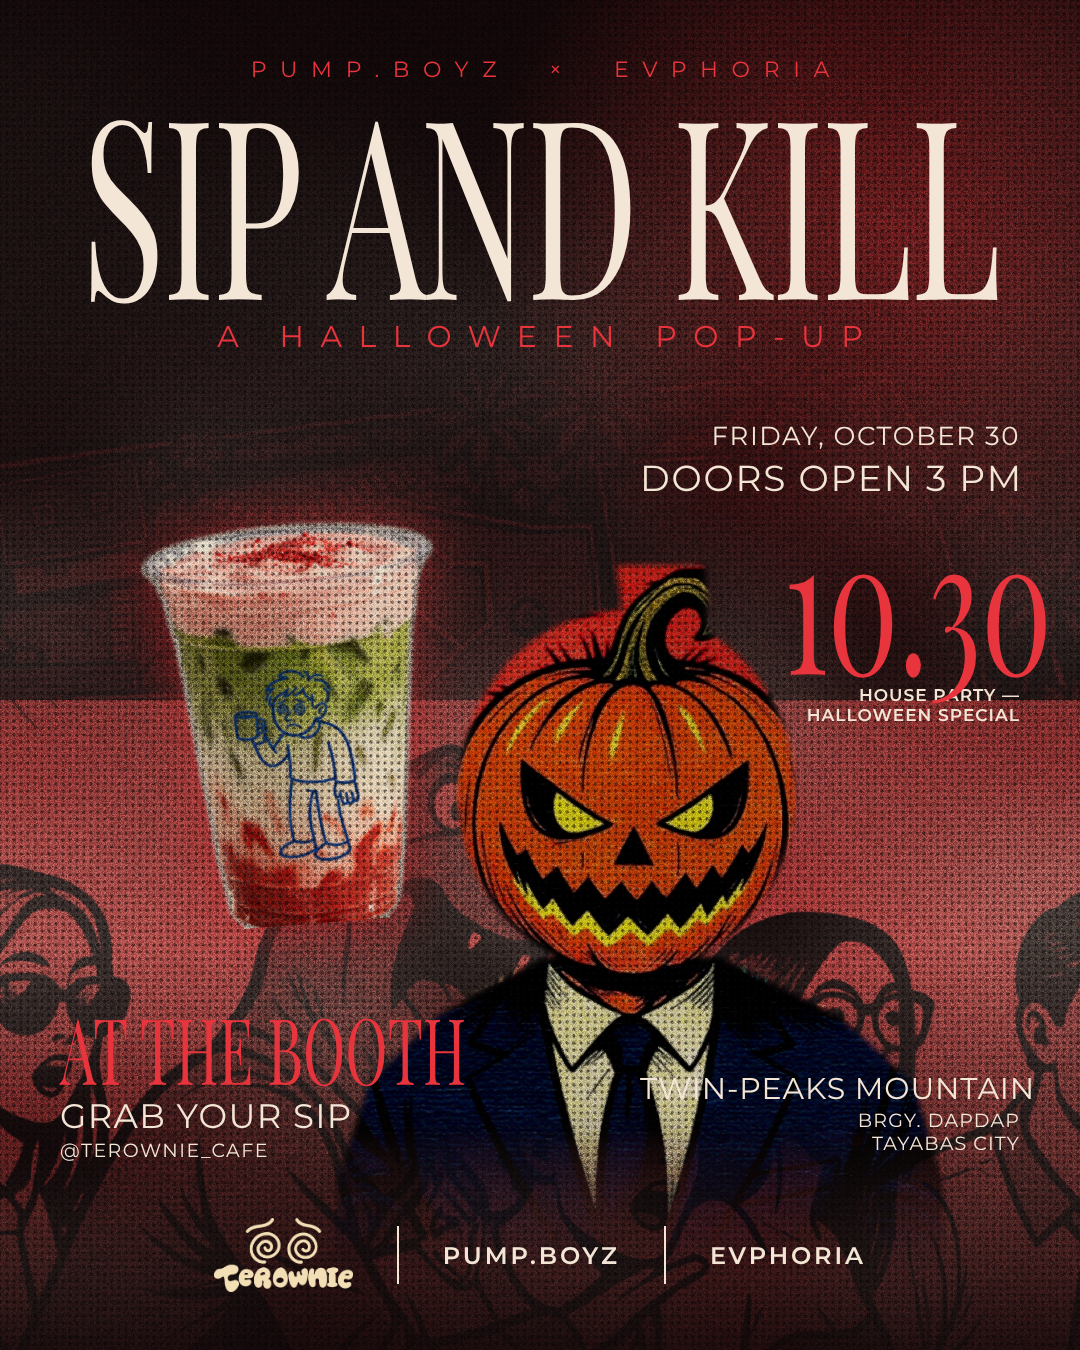
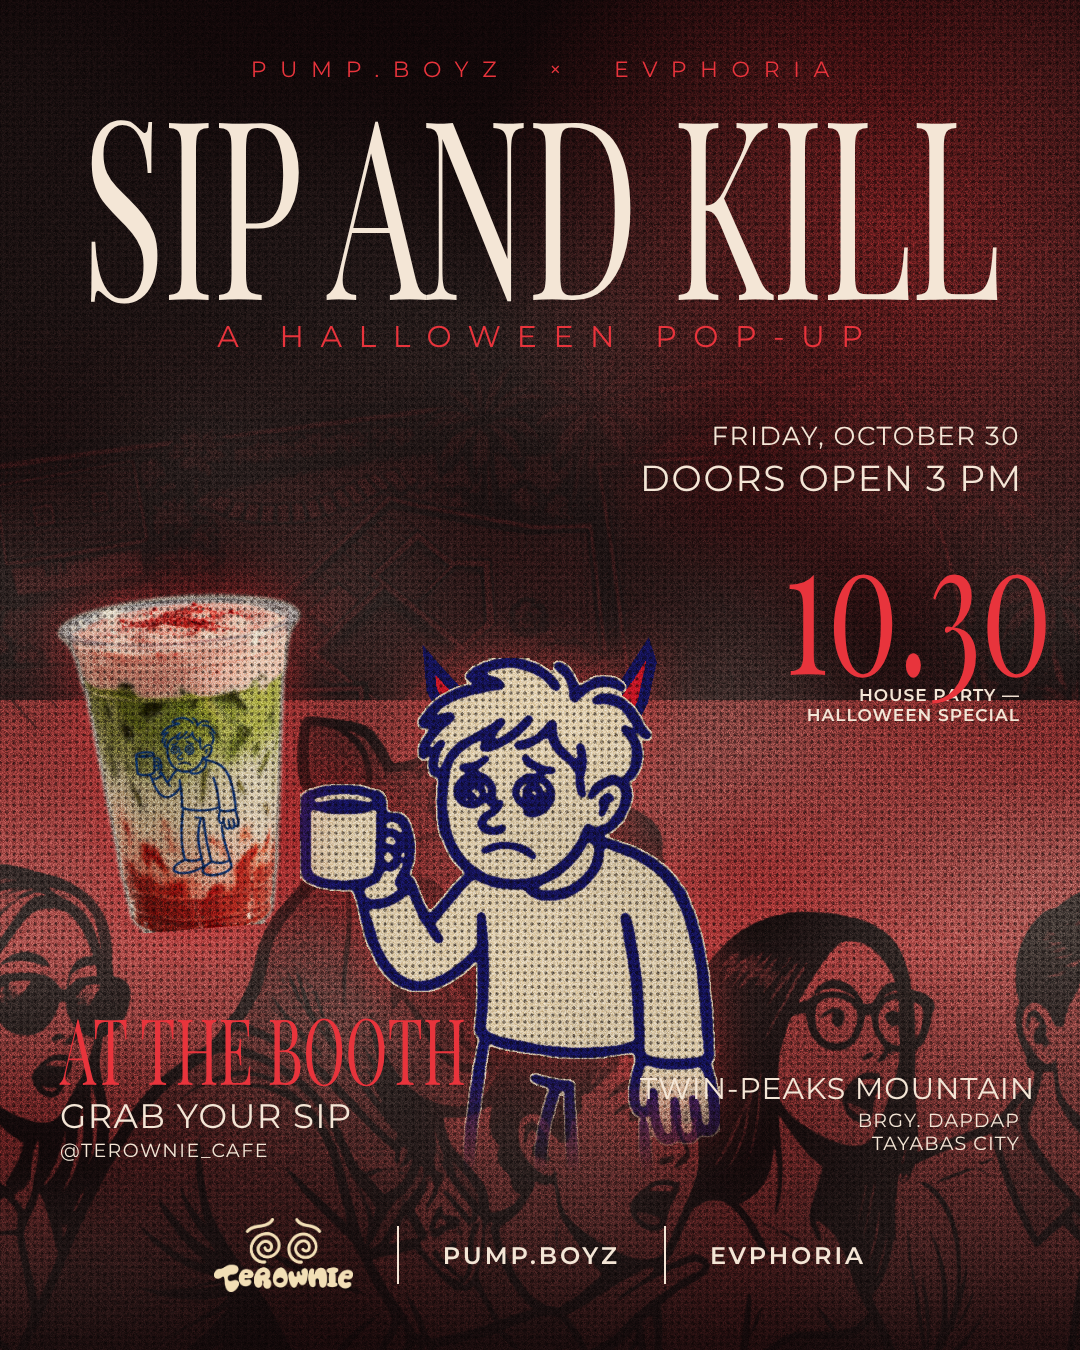
Replace event pumpkin host with Terownie's own sleepy mascot (devil-horn edition) in pop-up posters
Claude-Session: https://claude.ai/code/session_01Jsg96ZpBvmUg8MzNJ1nTWt

Changed region(s): [[0.0306, 0.3733, 0.8861, 0.9022]]

diff --git a/posters/source/fright.html b/posters/source/fright.html
@@ -19,7 +19,7 @@ const RED='#E8343C', CREAM='#F4E6D6';
   await fonts(["40px PF","400 20px MS","600 20px MS"]);
   const crowd=await load(ROOT+'public/event/costume-crowd.png');
   const house=await load(ROOT+'public/event/party-house.png');
-  const host=await load(ROOT+'public/event/pumpkin-host-cut.png');
+  const host=await load(ROOT+'public/brand/mascot-devil.png');
   const cup=await load(ROOT+'public/drinks/strawberry-matcha.png');
   const logo=await load(ROOT+'public/brand/terownie-logo-cream.png');
 
@@ -36,12 +36,12 @@ const RED='#E8343C', CREAM='#F4E6D6';
 
   // 2 the event's pumpkin-head host, dark and moody
   const fg=layer('02-pumpkin-host',2);
-  fg.save();fg.filter='brightness(.82) contrast(1.15) saturate(.9)';fg.drawImage(host,330,560,620,714);fg.restore();
+  fg.save();fg.shadowColor='rgba(232,52,60,.55)';fg.shadowBlur=50;fg.drawImage(host,300,600,420,574);fg.restore();
   g=fg.createLinearGradient(0,1100,0,1350);g.addColorStop(0,'rgba(18,7,9,0)');g.addColorStop(1,'rgba(18,7,9,.95)');fg.globalCompositeOperation='source-atop';fg.fillStyle=g;fg.fillRect(0,0,W,H);fg.globalCompositeOperation='source-over';
 
   // 3 the hero: real Terownie strawberry matcha held up like the red balloon
   const cp=layer('03-hero-drink',3);
-  cp.save();cp.shadowColor='rgba(232,52,60,.65)';cp.shadowBlur=60;cp.translate(300,720);cp.rotate(-.08);cp.drawImage(cup,-150,-200,300,404);cp.restore();
+  cp.save();cp.shadowColor='rgba(232,52,60,.65)';cp.shadowBlur=60;cp.translate(190,760);cp.rotate(-.08);cp.drawImage(cup,-125,-168,250,337);cp.restore();
   // 4 print finish: screen-door dots + event's retro canvas texture
   dotScreen(4,'rgba(10,3,5,.5)',7,1.7);
   retroFinish(5,.8);

diff --git a/posters/source/devil2.html b/posters/source/devil2.html
@@ -16,7 +16,7 @@ html,body{margin:0;background:transparent}
 const OR='#FF8A00', DRED='#A80E1C';
 (async()=>{
   await fonts(["40px BU","700 20px SY","500 20px SG"]);
-  const host=await load(ROOT+'public/event/pumpkin-host-cut.png');
+  const host=await load(ROOT+'public/brand/mascot-devil.png');
   const house=await load(ROOT+'public/event/party-house.png');
   const jack=await load(ROOT+'public/event/jack-cut.png');
   const cups=await Promise.all(['strawberry-matcha','taro-cloud','dirty-matcha'].map(n=>load(ROOT+'public/drinks/'+n+'.png')));
@@ -34,7 +34,7 @@ const OR='#FF8A00', DRED='#A80E1C';
 
   // the event's pumpkin-head host as the giant red "devil", left
   const ch=layer('03-pumpkin-host',3);
-  halftone(ch,host,-170,300,560,645,{color:'#FF2A35',plate:'#4A0610',spacing:6.5,gain:1.25,rot:.1,light:.9,lx:.6,ly:.15,seed:5});
+  halftone(ch,host,-120,270,520,711,{color:'#FF2A35',plate:'#4A0610',spacing:6.5,gain:1.25,rot:.1,light:.9,lx:.6,ly:.15,seed:5});
 
   // red ghosts of the crowd + big jack, bottom
   const bt=layer('04-jack',4);

diff --git a/posters/source/gazette.html b/posters/source/gazette.html
@@ -14,7 +14,7 @@ const PAPER='#2457E6', INK='#0B0B14';
 const M=30;
 (async()=>{
   await fonts(["40px AN"]);
-  const host=await load(ROOT+'public/event/pumpkin-host-cut.png');
+  const host=await load(ROOT+'public/brand/mascot-devil.png');
   const crowd=await load(ROOT+'public/event/costume-crowd.png');
   const house=await load(ROOT+'public/event/party-house.png');
   const cup=await load(ROOT+'public/drinks/dirty-matcha.png');
@@ -29,7 +29,7 @@ const M=30;
   // header rule + stars
   hr(M+14,404,W-2*M-28,8);
   // hero: pumpkin host in the headline box (right), halftoned dark-on-blue
-  halftone(ink,host,712,60,300,345,{color:INK,spacing:5.5,gain:.95,invert:true,light:.2,lx:.4,ly:.3,seed:4});
+  halftone(ink,host,742,46,252,345,{color:INK,spacing:5.5,gain:.95,invert:true,light:.2,lx:.4,ly:.3,seed:4});
   // left photo panel: the event's costume crowd
   const PX=M+14,PY=418,PW=430,PH=400;
   ink.save();ink.beginPath();ink.rect(PX,PY,PW,PH);ink.clip();
